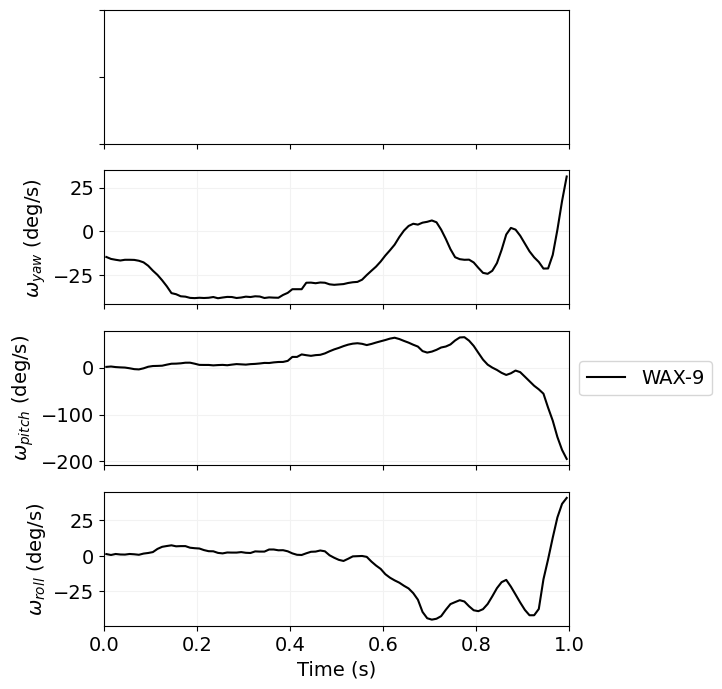
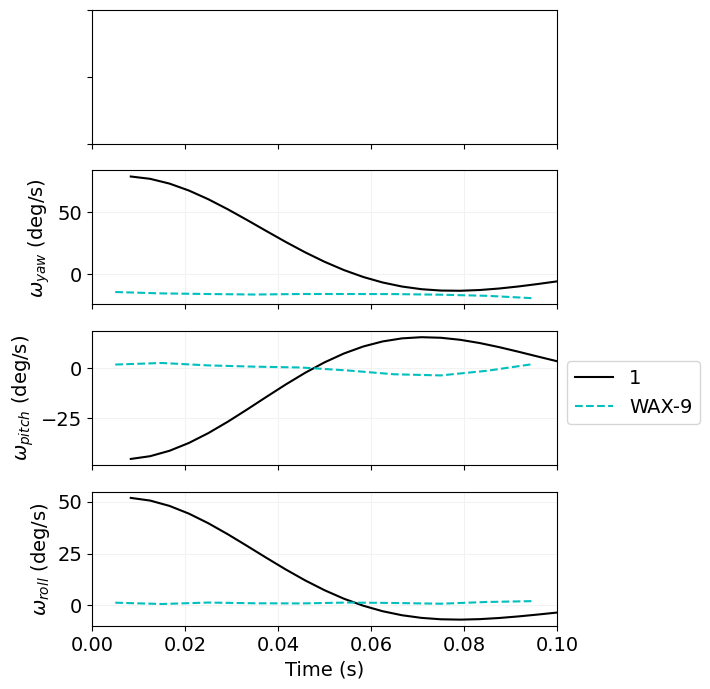
updating test_plot

diff --git a/test/test_plot.py b/test/test_plot.py
@@ -20,39 +20,40 @@ plt.clf()
 def test_plot_property():
     key_times = [0.01, 0.02]
     plt.clf()
-    line = Plot(HEAD).plot_property(xlim=(0, 0.001), 
+    line = Plot(HEAD).plot_property(xlim=(0, 0.1), 
                                     ylim=(-220, 220),
                                     show=False)
     plt.clf()
     line = Plot(HEAD).plot_property(property='velocity', 
-                                    xlim=(0, 0.001), 
+                                    xlim=(0, 0.1), 
                                     ylim=(-220, 220), 
                                     key_times=key_times,
                                     show=False) 
     plt.clf()
     wax9 = Wax9('resources/example_imu.csv', time_offset=-59.335, id='WAX-9')
-    line = Plot(HEAD, wax9).plot_property(xlim=(0, 0.001), 
+    line = Plot(HEAD, wax9).plot_property(xlim=(0, 0.1), 
                                           ylim=(-220, 220), 
                                           show=False)
     plt.clf()
     line = Plot(HEAD).plot_property(property='pose',
-                                    xlim=(0, 0.001), 
+                                    xlim=(0, 0.1), 
                                     ylim=(-220, 220),
                                     show=False)
     plt.clf()
     line = Plot(HEAD).plot_property(property='acceleration',
-                                    xlim=(0, 0.001), 
+                                    xlim=(0, 0.1), 
                                     ylim=(-220, 220),
                                     show=False)
     plt.clf()
-    line = Plot(wax9).plot_property(xlim=(0, 0.001), 
+    line = Plot(wax9).plot_property(xlim=(0, 0.1), 
                                     ylim=(-220, 220),
                                     show=False)
     plt.clf()
 
 def test_plot_summarise():
+    plt.clf()
     wax9 = Wax9('resources/example_imu.csv', time_offset=-59.335, id='WAX-9')
-    plot = Plot(HEAD, wax9).plot_property(xlim=(0, 1),  
-                                    show=False)
+    plot = Plot(HEAD, wax9).plot_property(xlim=(0, 0.1),  
+                                          show=False)
 
     plot.summarise()
